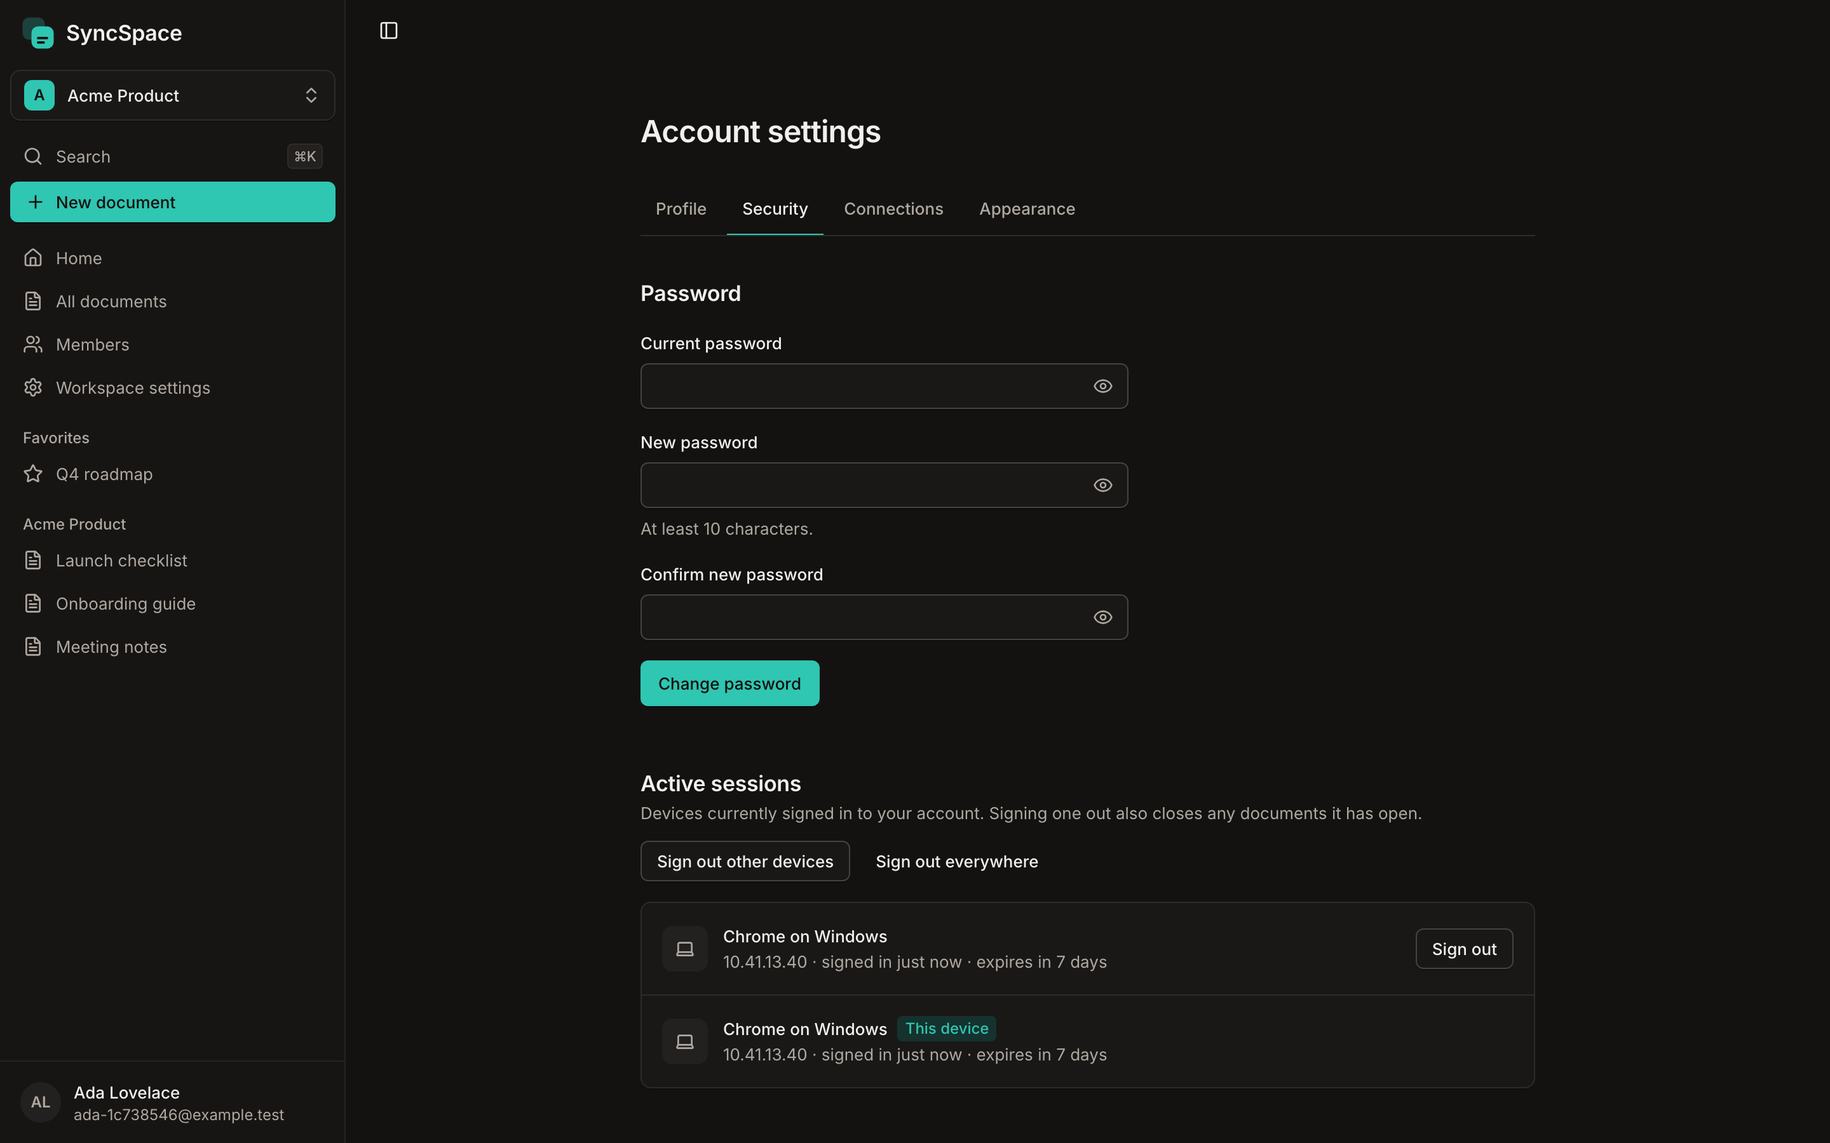
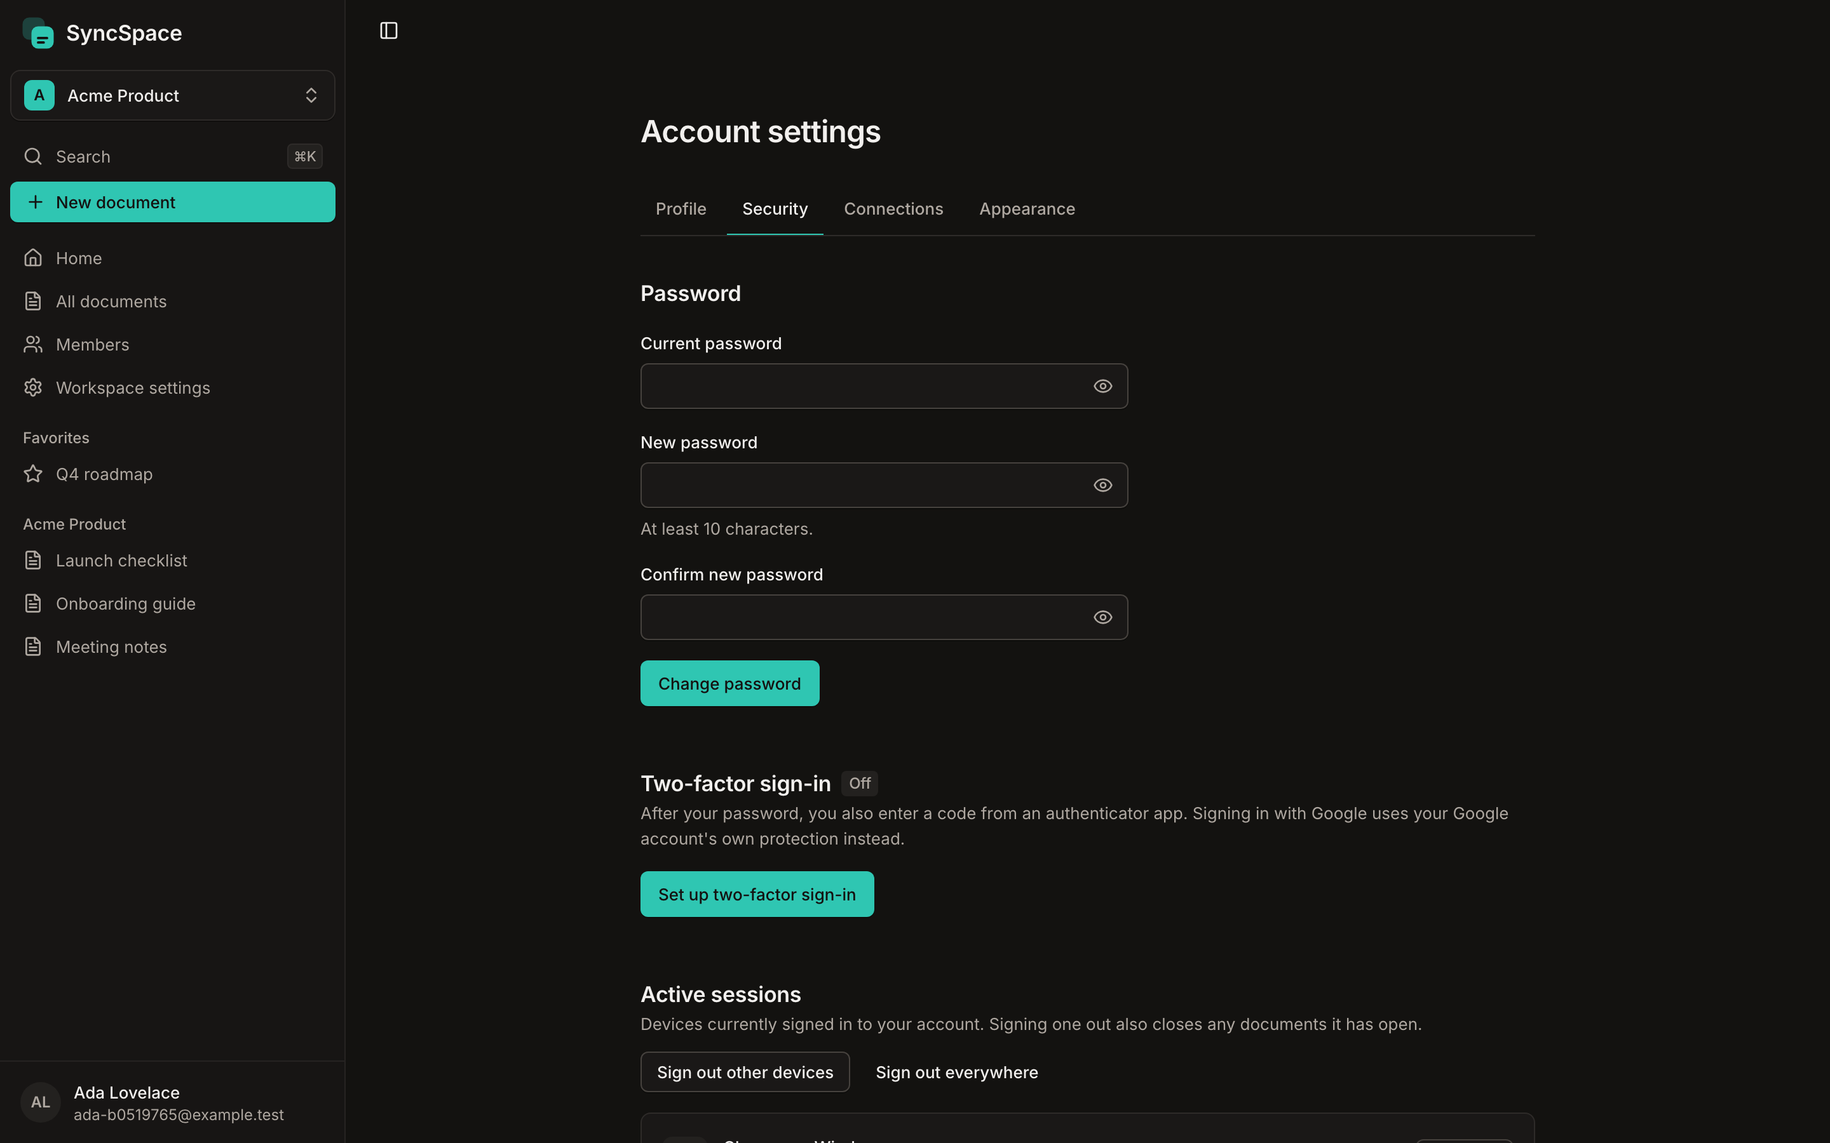
Describe the new features and what is still untested
Updates the guides and screenshots for the account and sharing features, and
records what the accessibility review covered. No screen reader has been used.

diff --git a/e2e/screenshots.spec.ts b/e2e/screenshots.spec.ts
@@ -96,8 +96,12 @@ test("product tour (desktop, light and dark)", async ({ browser }) => {
   await page.waitForTimeout(400);
   await shot(page, "editor-collaboration-light");
 
-  await page.getByRole("button", { name: "Share" }).click();
+  await page.getByRole("button", { name: "Share", exact: true }).click();
   await expect(page.getByRole("heading", { name: "Share this document" })).toBeVisible();
+  await page.getByRole("dialog").getByLabel("Share with email").fill("sam@example.test");
+  await page.getByRole("dialog").getByRole("button", { name: "Share", exact: true }).click();
+  await expect(page.getByRole("combobox", { name: "Access for sam@example.test" })).toBeVisible();
+  await expect(page.locator("[data-sonner-toast]")).toHaveCount(0, { timeout: 10_000 });
   await shot(page, "share-dialog-light");
   await page.keyboard.press("Escape");
 
@@ -116,6 +120,9 @@ test("product tour (desktop, light and dark)", async ({ browser }) => {
   await page.goto("/settings/connections");
   await expect(page.getByText("Sign-in methods")).toBeVisible();
   await shot(page, "connections-light");
+  await page.goto("/settings");
+  await expect(page.getByRole("heading", { name: "Delete account" })).toBeVisible();
+  await shot(page, "account-light", true);
   await page.goto(`/d/${ids[0]}/history`);
   await expect(page.getByRole("navigation", { name: "Versions" })).toBeVisible();
   await page.getByRole("navigation", { name: "Versions" }).getByRole("button").nth(1).click(); // an older version, so Restore is offered

diff --git a/README.md b/README.md
@@ -12,7 +12,7 @@ Full-stack TypeScript: Next.js · NestJS · PostgreSQL · Yjs · Redis · Better
 | Watch two browsers edit one document | [Demo walkthrough](#demo-walkthrough) |
 | See how permissions are enforced on live sockets | [`collaboration.service.ts`](apps/api/src/collaboration/collaboration.service.ts) · [tests](apps/api/test/collaboration.service.spec.ts) |
 | See how multi-server delivery works | [Architecture](docs/architecture/overview.md) · [ADR 0004](docs/adr/0004-stream-fanout.md) |
-| Numbers | [Benchmark](docs/benchmarks/collaboration.md): 280 clients on two API instances, 4,000 updates, 0 divergence, p95 ack ≈ 64 ms. [Fault injection](docs/benchmarks/fault-injection.md): survives Redis loss and a crash |
+| Numbers | [Benchmark](docs/benchmarks/collaboration.md): 280 clients on two API instances, 4,000 updates, 0 divergence, p95 ack ≈ 64 ms. [Fault injection](docs/benchmarks/fault-injection.md): no acknowledged edit lost through Redis, database and instance failures, including 90 s outages |
 | What was wrong before, and what changed | [Baseline and outcome](docs/modernization/baseline.md) |
 
 ## Features
@@ -20,9 +20,9 @@ Full-stack TypeScript: Next.js · NestJS · PostgreSQL · Yjs · Redis · Better
 - **Collaborative rich-text editor** (Tiptap on Yjs): headings, bold/italic/underline/strike, lists, quotes, code, links, keyboard shortcuts, remote cursors with names, presence avatars.
 - **Honest sync state**: *Saved* appears only after the server acknowledged persistence. *Offline*, *Reconnecting* and *View only* are real connection and role states.
 - **Offline-first**: edits made offline are queued in IndexedDB, survive a reload, and replay idempotently on reconnect.
-- **Workspaces and roles** (Owner / Editor / Viewer) with invitations by email, live role changes and last-owner protection. Removing a member or revoking a session closes their open documents immediately.
+- **Workspaces and roles** (Owner / Editor / Viewer) with invitations by email, live role changes and last-owner protection. A **single document can be shared** with someone outside the workspace, as viewer or editor. Removing a member or revoking a session closes their open documents immediately.
 - **Version history** with read-only previews of any past version and **one-click restore**. A restore is saved as a new version, so it can itself be undone. **Favorites, recents, search and a ⌘K command menu.**
-- **Account security**: Argon2id passwords, email verification, password reset, database-backed sessions with a per-device list and revocation, **Google sign-in** with explicit-only account linking, security activity log.
+- **Account security**: Argon2id passwords, email verification, password reset, database-backed sessions with a per-device list and revocation, **two-factor sign-in** with backup codes, **Google sign-in** with explicit-only account linking, email change approved from both addresses, account deletion, security activity log.
 - **Design system**: light and dark themes, tokenised colour/type/radius/shadow/motion/focus, responsive down to 375 px, axe-scanned against WCAG 2.2 AA rules, reduced-motion support.
 
 <table>
@@ -40,7 +40,7 @@ Full-stack TypeScript: Next.js · NestJS · PostgreSQL · Yjs · Redis · Better
 </tr>
 </table>
 
-More: [command menu](docs/screenshots/command-menu-light.png) · [members](docs/screenshots/members-light.png) · [version history](docs/screenshots/history-light.png) · [connections](docs/screenshots/connections-light.png) · [mobile navigation](docs/screenshots/mobile-navigation.png)
+More: [command menu](docs/screenshots/command-menu-light.png) · [members](docs/screenshots/members-light.png) · [version history](docs/screenshots/history-light.png) · [connections](docs/screenshots/connections-light.png) · [account](docs/screenshots/account-light.png) · [mobile navigation](docs/screenshots/mobile-navigation.png)
 
 ## Quick start
 
@@ -118,7 +118,7 @@ docker compose up -d postgres redis mailpit
 docker compose exec postgres psql -U syncspace -d postgres -c "create database syncspace_test"
 pnpm test:e2e                                  # real browsers against the real stack
 scripts/bench.sh                               # multi-instance load test
-scripts/fault-injection.sh                     # Redis pause/flush, frozen instance, kill -9 under load
+scripts/fault-injection.sh                     # break Redis, PostgreSQL or an instance under load
 ```
 
 See [docs/testing.md](docs/testing.md). GitHub Actions runs lint, typecheck, unit tests, build, the full Playwright suite and Docker image builds.
@@ -133,8 +133,8 @@ Stated plainly:
 
 - **Live Google sign-in has been checked locally only** (2026-11-25, one test user, consent screen in *Testing*): sign-in, sign-out and sign-in again to the same account. A public domain, a published consent screen and live account linking from Settings are untested. The other OAuth paths are covered against a local OIDC stand-in. [Details](docs/auth/google-setup.md#4-what-is-and-isnt-verified).
 - **No hosted demo.** There is no public deployment, so run it locally (two commands above). The [single-server setup](docs/deployment.md) has been rehearsed locally but not on a public server.
-- **Fault injection is one scenario on one machine** (Redis pause and flush, a frozen instance, `kill -9`). It found and fixed three real defects, and its limits are listed in [docs/benchmarks/fault-injection.md](docs/benchmarks/fault-injection.md#limits-of-this-test). PostgreSQL failure and long outages are untested.
-- Sharing is per workspace, not per document. There are no public share links.
-- Email change, account deletion and two-factor authentication are not implemented.
-- Accessibility is checked with axe's WCAG 2.2 AA rules plus keyboard tests. Automated tools cover only part of the criteria, and there has been no screen-reader or manual audit.
+- **Fault injection runs on one machine**, three scripted scenarios. It found and fixed six real defects. Network partitions, database failover and longer outages are untested ([limits](docs/benchmarks/fault-injection.md#limits-of-these-tests)).
+- There are no public share links: a shared document needs a confirmed account with that email address.
+- Two-factor sign-in uses an authenticator app and covers password sign-in. Google sign-in relies on the Google account's own protection.
+- **No screen-reader testing.** Accessibility is checked with axe's WCAG 2.2 AA rules, keyboard tests and a structure review ([details](docs/accessibility.md)).
 - Migrated legacy users are imported as unverified and need to confirm their email if verification is enforced.

diff --git a/docs/testing.md b/docs/testing.md
@@ -2,11 +2,11 @@
 
 | Layer | Command | What it covers |
 | --- | --- | --- |
-| Unit / integration | `pnpm test` | **API** (Vitest on in-process PostgreSQL via PGlite, with the real migrations): RBAC, atomic workspace creation, last-owner protection, invitations, server-assigned versions, idempotency, concurrent writers, snapshots, historical state, two collaboration instances over real WebSockets (viewer writes, revocation, cross-instance delivery), MongoDB migrator, legacy password upgrade. **Web**: helpers, sync-status logic and the collaboration provider against a fake socket (backlog merge, gap detection, backoff, no reconnect after access removal). **Config**, **loadtest stats**. |
-| Browser end-to-end | `pnpm test:e2e` | Real Next.js + NestJS + PostgreSQL + Redis + Mailpit (`playwright.config.ts` starts them): email auth, verification, recovery, session revocation, Google OAuth against a protocol mock, workspaces, invitations, role changes, live revocation, two-browser collaboration, offline sync, viewer enforcement over a raw socket, formatting persistence, responsive overflow at 375/768/1024/1440, theme persistence, keyboard flows, axe WCAG 2.2 AA scans in light and dark. |
+| Unit / integration | `pnpm test` | **API** (Vitest on in-process PostgreSQL via PGlite, with the real migrations): RBAC, atomic workspace creation, last-owner protection, invitations, single-document sharing, two-factor sign-in, email change and account deletion (against Better Auth's real handler), database connection loss, server-assigned versions, idempotency, concurrent writers, snapshots, historical state, two collaboration instances over real WebSockets (viewer writes, revocation, cross-instance delivery), MongoDB migrator, legacy password upgrade. **Web**: helpers, sync-status logic and the collaboration provider against a fake socket (backlog merge, gap detection, backoff, no reconnect after access removal, honest save status, oversized backlogs). **Config**, **loadtest stats**. |
+| Browser end-to-end | `pnpm test:e2e` | Real Next.js + NestJS + PostgreSQL + Redis + Mailpit (`playwright.config.ts` starts them): email auth, verification, recovery, session revocation, Google OAuth against a protocol mock, workspaces, invitations, role changes, live revocation, two-browser collaboration, offline sync, viewer enforcement over a raw socket, formatting persistence, responsive overflow at 375/768/1024/1440, theme persistence, keyboard flows, two-factor sign-in, email change, account deletion, guest access to one document, page titles, headings and 320 px reflow, axe WCAG 2.2 AA scans in light and dark. |
 | Screenshots | `SCREENSHOTS=1 npx playwright test e2e/screenshots.spec.ts` | Regenerates `docs/screenshots/*` from the real UI. |
 | Load | `scripts/bench.sh` | See `docs/benchmarks/collaboration.md`. |
-| Fault injection | `scripts/fault-injection.sh` | Redis pause/flush, a frozen instance and a `kill -9` under write load. See `docs/benchmarks/fault-injection.md`. |
+| Fault injection | `scripts/fault-injection.sh` | Redis, PostgreSQL and instance failures under write load, including long outages. See `docs/benchmarks/fault-injection.md`. |
 
 E2E prerequisites: `docker compose up -d postgres redis mailpit` and `createdb syncspace_test`
 (`docker compose exec postgres psql -U syncspace -d postgres -c "create database syncspace_test"`).

diff --git a/docs/api/rest.md b/docs/api/rest.md
@@ -1,21 +1,24 @@
 # REST API
 
 Cookie session required unless marked public. State-changing requests must carry `Origin: <WEB_ORIGIN>`. Errors are
-`{ statusCode, message }`. Non-members receive `404`, insufficient role `403`, last-owner violations `409`.
+`{ statusCode, message }`. People without access receive `404`, insufficient role `403`, last-owner violations `409`.
 
 | Method & path | Role | Notes |
 | --- | --- | --- |
 | `GET /health`, `GET /config` | public | liveness; `{ googleEnabled, requireEmailVerification }` |
-| `/api/auth/*` | public/session | Better Auth: sign-up/in/out, verification, reset, sessions, accounts, Google |
+| `/api/auth/*` | public/session | Better Auth: sign-up/in/out, verification, reset, sessions, accounts, Google, email change, two-factor |
 | `GET /me`, `GET /me/security-events` | any | |
+| `GET /me/deletion`, `DELETE /me` `{ confirmEmail, password? }` | any | preview, then delete. `409` while the only owner of a shared workspace; accounts without a password need a sign-in from the last 10 minutes |
 | `GET/POST /workspaces`, `GET/PATCH/DELETE /workspaces/:id` | member / owner | create is transactional |
 | `GET /workspaces/:id/members` | member | |
 | `PUT/DELETE /workspaces/:id/members/:userId` | owner (self-leave allowed) | last owner protected |
 | `GET/POST /workspaces/:id/invitations`, `DELETE …/:invitationId` | owner | emailed single-use link |
 | `GET /invitations`, `POST /invitations/:id/accept`, `POST /invitations/preview`, `POST /invitations/accept` | invitee | email must match |
 | `GET/POST /workspaces/:id/documents` | member / editor+ | `?q=` filters by title |
-| `GET/PATCH/DELETE /documents/:id` | member / editor+ / editor+ | |
-| `PUT/DELETE /documents/:id/favorite`, `GET /documents/recent`, `GET /documents/favorites`, `GET /search?q=` | member | |
-| `GET /documents/:id/history`, `GET /documents/:id/history/:version` | member | read-only reconstruction |
-| `POST /documents/:id/restore` `{ version }` | editor+ | rewinds the content as a **new** version (history is never rewritten) and pushes it to open editors live |
+| `GET/PATCH/DELETE /documents/:id` | reader / writer / workspace editor+ | `workspaceRole` is `null` for a guest |
+| `GET/PUT /documents/:id/shares` `{ email, role }`, `DELETE …/:shareId` | workspace owner | share one document as viewer or editor. A guest also sees that document's version history and who edited it |
+| `GET /documents/shared` | any | documents shared with you from workspaces you don't belong to |
+| `PUT/DELETE /documents/:id/favorite`, `GET /documents/recent`, `GET /documents/favorites`, `GET /search?q=` | reader | |
+| `GET /documents/:id/history`, `GET /documents/:id/history/:version` | reader | read-only reconstruction |
+| `POST /documents/:id/restore` `{ version }` | writer | rewinds the content as a **new** version (history is never rewritten) and pushes it to open editors live |
 | `GET/PUT/DELETE /workspaces/:id/integrations/:provider`, `POST …/send` | member / owner / editor+ | webhook hosts are allow-listed |

diff --git a/docs/accessibility.md b/docs/accessibility.md
@@ -1,0 +1,40 @@
+# Accessibility
+
+The target is WCAG 2.2 AA. This records what has been checked and, as important, what hasn't.
+
+## Checked automatically on every pull request
+
+- axe's WCAG 2.2 A and AA rules on the sign-in pages, every signed-in page and the share, two-factor and account
+  deletion screens, mostly in light and dark (`e2e/ui.spec.ts`, `e2e/account.spec.ts`, `e2e/sharing.spec.ts`).
+- Each page has its own title, one main region, one first-level heading and no skipped heading level.
+- No horizontal scrolling at 320 px.
+- In-app navigation renames the page, which is what the route announcer reads.
+- Keyboard: skip link, command menu, mobile drawer and dialog focus, formatting shortcuts, and that Tab can leave the
+  editor from inside a list.
+
+## Structure review (2026-11-25)
+
+The accessibility tree, headings, titles, focus order, forced-colors focus and 320 px reflow were inspected in
+Chromium, and these were fixed:
+
+| Problem | Fix |
+| --- | --- |
+| Most pages were titled "SyncSpace" | Every page names itself |
+| The document page had no main heading | Added one carrying the document title |
+| A sidebar label was a heading above the page heading | No longer a heading |
+| Empty and error states skipped heading levels | Level follows the page |
+| The 404 page had no main region | New page with a heading and a way home |
+| The security page overflowed at 320 px | Buttons wrap |
+| The title field had a faint focus indicator | Standard focus ring |
+| "1 people here" | "1 person here" |
+
+## Not done
+
+- **No screen-reader testing.** Nobody has used the app with VoiceOver, NVDA, JAWS or TalkBack. Inspecting the
+  accessibility tree does not show how announcements sound or whether live editing is understandable.
+- No testing with people who use assistive technology, and no manual audit against every criterion.
+- Collaborators' arrivals, departures and edits are not announced.
+- Browsers other than Chromium were not checked.
+
+A short manual pass with VoiceOver would be: sign in, create a document, format a list, open Share, add a person, turn on
+two-factor sign-in, and have a second person edit while you read.

diff --git a/docs/failure-modes.md b/docs/failure-modes.md
@@ -6,11 +6,13 @@
 | API instance crashes (`kill -9`) or a socket drops | Client reconnects with jittered backoff (longer after a `4429`), receives fresh state, and replays its unacknowledged backlog **as one merged update**. Tested. |
 | Instance frozen then resumed (GC pause, VM stall) | Its sockets are intact but it may have missed events. Same resync path as above. Tested. |
 | Redis unavailable, restarted or its stream wiped | Writes still persist to PostgreSQL. Publishes queue and are delivered when Redis returns. If events were destroyed, `sync.check` (every 10 s) shows clients they are behind and they resync, typically within ~20 s. `/health` reports `redis:false` meanwhile. Tested: `docs/benchmarks/fault-injection.md`. |
-| PostgreSQL unavailable | Writes fail with an error to the sender (no ack, so the UI keeps showing **Saving…** and the update stays queued). `/health` reports `postgres:false`. |
+| PostgreSQL unavailable, restarted or crashed | The API stays up. An update that can't be saved closes the socket with `1013`, so the client reconnects with backoff and resends everything unacknowledged. Nobody is reported as signed out; the web app shows **Can't reach SyncSpace** if it can't check the session. `/health` reports `postgres:false`. Tested. |
 | Duplicate delivery / retries | `(document_id, update_id)` is unique, so duplicates are acked without a new version. |
 | Two people edit at once | Yjs merges both. Versions are serialised by the document row lock. |
 | Member removed / role changed | Event closes or downgrades sockets on every instance immediately. The 15 s sweep and the per-write role check cover missed events. |
 | Session revoked | Sockets for that session close with `4411`. REST calls return `401` on the next request (no cookie cache). |
+| Offline backlog larger than one message | Split into as few messages as fit. |
+| A single edit too large to accept (about 1 MB) | Reported in the editor as not saved. |
 | Corrupt or forged update | Rejected as `malformed` before persisting. |
 | Snapshot race | Snapshots are `ON CONFLICT DO NOTHING` and `snapshot_version` only moves forward. |
 

diff --git a/docs/data-model/postgres.md b/docs/data-model/postgres.md
@@ -16,6 +16,8 @@ erDiagram
   user ||--o{ document_favorite : stars
   user ||--o{ document_view : opens
   user ||--o{ audit_event : acts
+  user ||--o| two_factor : protects
+  document ||--o{ document_share : "shared with"
 ```
 
 | Table | Purpose and key constraints |
@@ -28,7 +30,13 @@ erDiagram
 | `document_update` | Append-only Yjs updates (`bytea`). Unique `(document_id, version)` and `(document_id, update_id)` (the idempotency key). |
 | `document_snapshot` | Compacted Yjs state at `version`. Unique per `(document_id, version)`. |
 | `document_favorite`, `document_view` | Per-user favourites and recents. |
+| `two_factor` | Authenticator secret and backup codes, encrypted by Better Auth. |
+| `document_share` | Access to one document, addressed to an email. Unique `(document_id, email)`. `user_id` is bound once someone has verified that address, so a later email change keeps access. Unbound rows count only for a verified owner of the address. |
 | `audit_event` | Security and membership events (`auth.signed_in`, `member.role_changed`, …) shown on the Security page. |
+
+**Deleted accounts.** The person's row is removed. Documents and updates in workspaces others still use are reassigned
+to a placeholder user (`deleted-user`, created by migration `0001`), so history stays intact without their name.
+Workspaces with no other members are deleted.
 
 **Why Yjs blobs live in PostgreSQL:** updates are small (typically < 1 KB), the log is bounded by snapshots, and a single
 transactional store gives atomic version assignment, idempotency and consistent access control for free. A separate

diff --git a/docs/api/websockets.md b/docs/api/websockets.md
@@ -29,4 +29,5 @@ Authentication is the session **cookie** (sent automatically; credentials in the
 ## Close codes
 
 `4401` not signed in · `4403` origin not allowed · `4404` no such document / no access · `4410` access removed ·
-`4411` session revoked · `4429` rate limited. Any other close is treated by the client as transient and retried.
+`4411` session revoked · `4429` rate limited · `1013` the server can't save or check right now, try again.
+Any close not starting with `44`, and also `4429`, is treated by the client as transient: it reconnects and resends.
